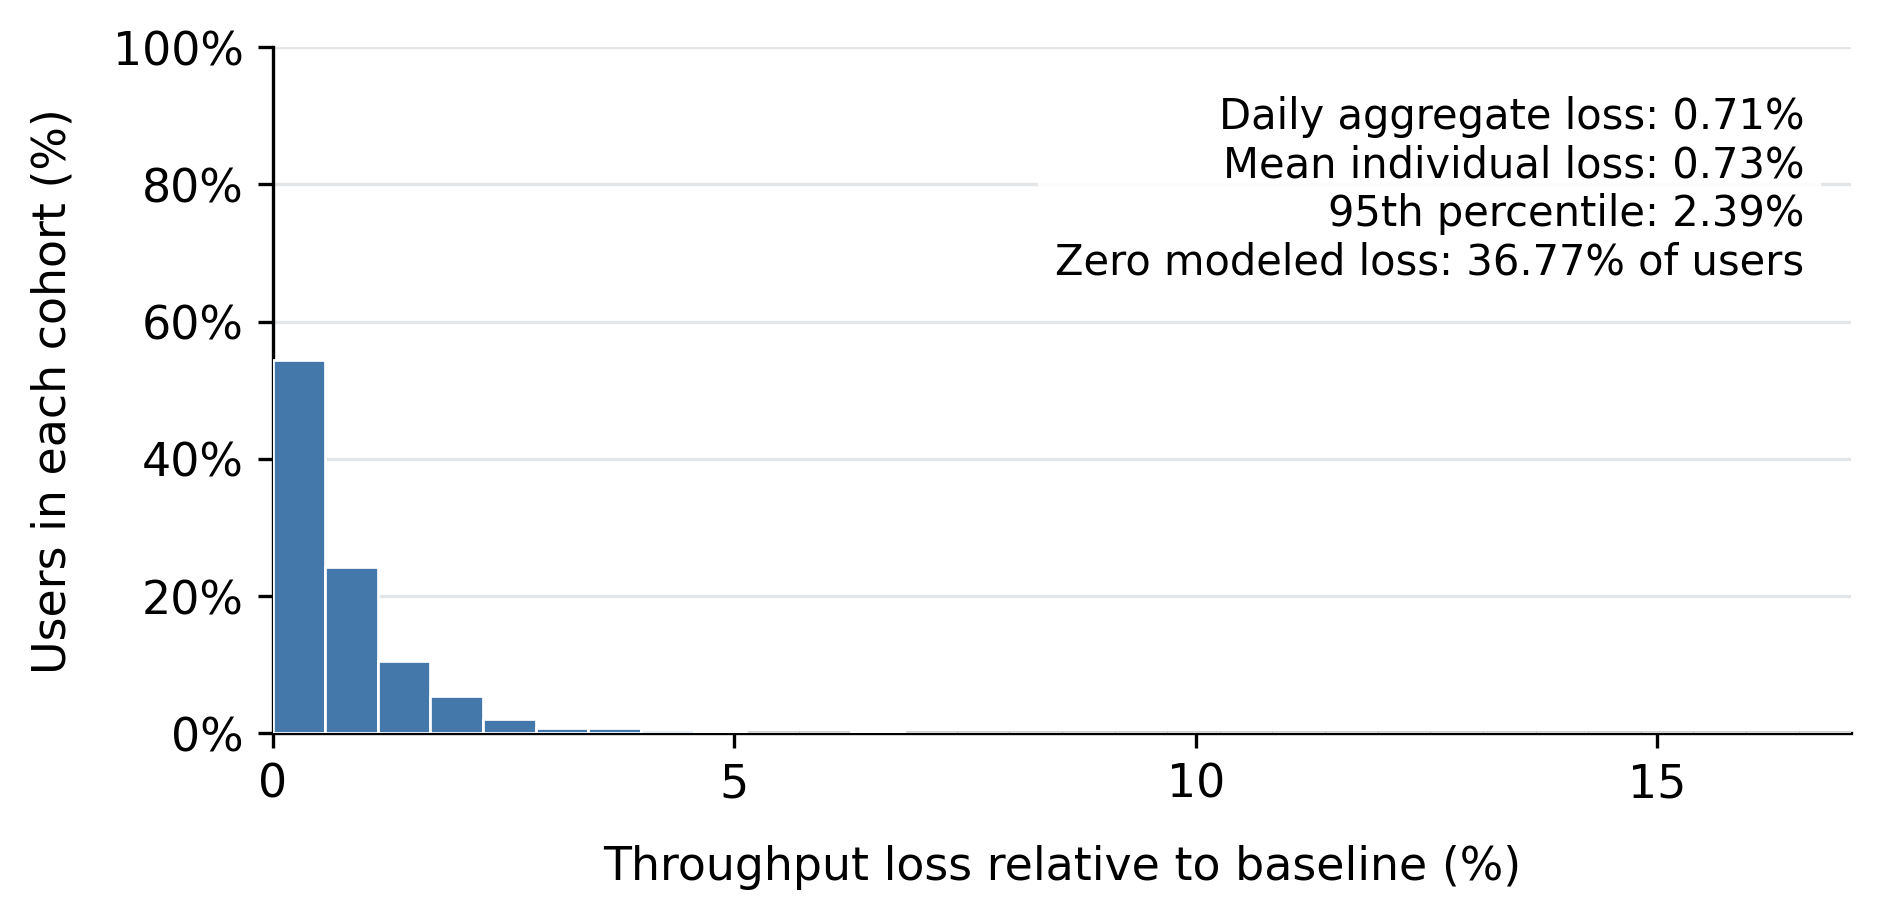
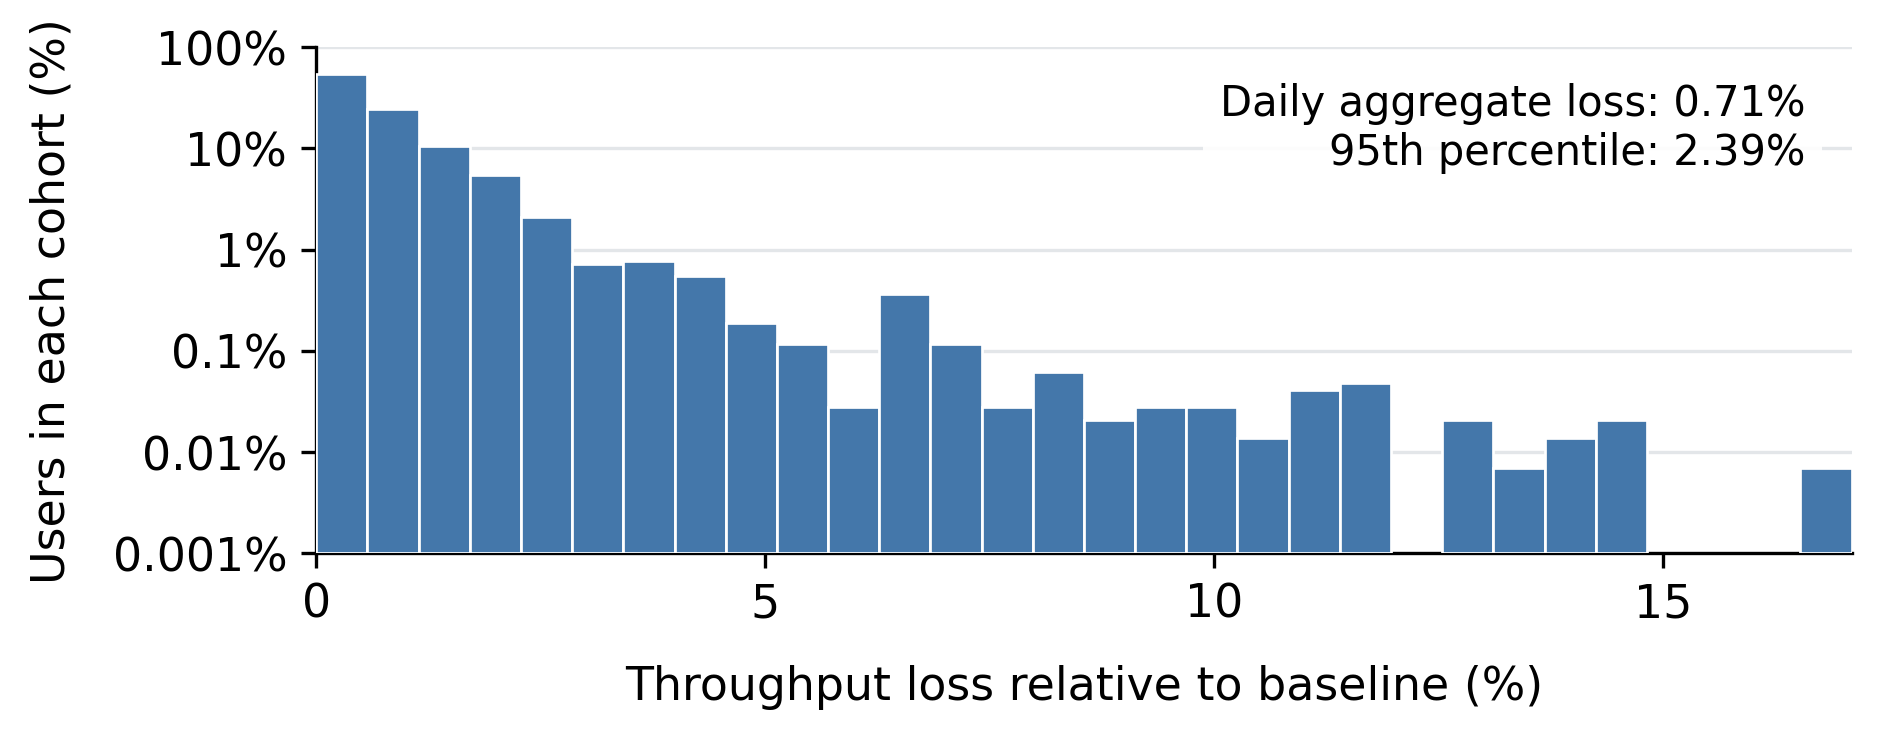
Update per-user throughput loss analysis: enhance histogram visualization with logarithmic scale, adjust output descriptions, and update generator SHA256

diff --git a/results/per-user-degradation/plot_session_histogram.py b/results/per-user-degradation/plot_session_histogram.py
@@ -9,7 +9,7 @@ import matplotlib
 
 matplotlib.use("Agg")
 import matplotlib.pyplot as plt
-from matplotlib.ticker import FormatStrFormatter, MaxNLocator, PercentFormatter
+from matplotlib.ticker import FormatStrFormatter, LogLocator, MaxNLocator, NullLocator
 import numpy as np
 import pandas as pd
 
@@ -65,14 +65,21 @@ def generate(source, output_dir):
                       output_dir / f"{OUTPUT_NAME}-bins.csv", index=False)
 
     plt.rcParams.update({"font.family": "DejaVu Sans", "font.size": 11, "pdf.fonttype": 42})
-    fig, ax = plt.subplots(figsize=(6.4, 3.2))
-    ax.bar(edges[:-1], percentages, width=width, align="edge", color="#4477AA",
+    fig, ax = plt.subplots(figsize=(6.4, 2.6))
+    nonempty = counts > 0
+    lower_limit = 10 ** np.floor(np.log10(percentages[nonempty].min() / 2))
+    ax.set_yscale("log")
+    # Empty bins stay blank, and each bar top retains its actual percentage.
+    ax.bar(edges[:-1][nonempty], percentages[nonempty] - lower_limit,
+           bottom=lower_limit, width=width, align="edge", color="#4477AA",
            edgecolor="white", linewidth=0.65, zorder=3)
     ax.set_xlim(0, edges[-1])
-    ax.set_ylim(0, 100)
+    ax.set_ylim(lower_limit, 100)
     ax.xaxis.set_major_locator(MaxNLocator(nbins=5, steps=[1, 2, 5, 10]))
     ax.xaxis.set_major_formatter(FormatStrFormatter("%g"))
-    ax.yaxis.set_major_formatter(PercentFormatter(100, decimals=0))
+    ax.yaxis.set_major_locator(LogLocator(base=10, numticks=7))
+    ax.yaxis.set_major_formatter(FormatStrFormatter("%g%%"))
+    ax.yaxis.set_minor_locator(NullLocator())
     ax.set_xlabel("Throughput loss relative to baseline (%)", labelpad=9)
     ax.set_ylabel("Users in each cohort (%)", labelpad=9)
     ax.grid(axis="y", color="#E3E6E9", zorder=0)
@@ -80,14 +87,12 @@ def generate(source, output_dir):
         ax.spines[spine].set_visible(False)
     ax.text(0.97, 0.93,
             f"Daily aggregate loss: {aggregate:.2f}%\n"
-            f"Mean individual loss: {losses.mean():.2f}%\n"
-            f"95th percentile: {np.quantile(losses, 0.95):.2f}%\n"
-            f"Zero modeled loss: {100 * (losses == 0).mean():.2f}% of users",
+            f"95th percentile: {np.quantile(losses, 0.95):.2f}%",
             transform=ax.transAxes, ha="right", va="top", fontsize=10,
             bbox={"facecolor": "white", "edgecolor": "none", "alpha": 0.9})
     fig.tight_layout()
     fig.savefig(stem.with_suffix(".pdf"), bbox_inches="tight", metadata={
-        "Title": "Modeled per-user throughput-loss distribution",
+        "Title": "Per-user throughput-loss distribution",
         "Subject": "Simulated loss distribution with lost volumes uniformly adjusted to a 0.71% daily aggregate",
         "CreationDate": None, "ModDate": None})
     fig.savefig(stem.with_suffix(".png"), dpi=300, bbox_inches="tight")
@@ -123,9 +128,10 @@ def generate(source, output_dir):
     }
     stem.with_suffix(".json").write_text(json.dumps(report, indent=2) + "\n")
     stem.with_suffix(".caption.txt").write_text(
-        "Distribution of modeled per-user throughput reductions across the 24-hour trace, "
-        "with modeled lost volumes uniformly adjusted to a daily aggregate of 0.71%. "
-        "The annotations distinguish the volume-weighted daily aggregate from the mean individual loss. User associations "
+        "Distribution of per-user throughput reductions across the 24-hour trace, "
+        "with a logarithmic vertical axis and empty bins left blank. "
+        "Session lost volumes are uniformly adjusted to a daily aggregate of 0.71%. "
+        "The annotations report the volume-weighted daily aggregate and the 95th percentile of individual loss. User associations "
         "are simulated, and radio-capacity deficits are outside this model.\n"
     )
     return report

diff --git a/results/per-user-degradation/README.md b/results/per-user-degradation/README.md
@@ -43,10 +43,13 @@ those copies before compiling the documents.
 
 The histogram covers 14,491 modeled user sessions across the 24-hour trace,
 with 30 equal-width bins including zero losses and the full tail. The canvas
-is 6.4 by 3.2 inches, without an upper title. Statistics use two decimal places.
+is 6.4 by 2.6 inches, without an upper title. The x-axis is linear, and the
+y-axis uses a logarithmic percentage scale with decade ticks. Its lower limit
+is below the smallest nonempty bin, and its upper limit is 100%. Empty bins
+remain blank. Statistics use two decimal places.
 
 The daily aggregate is 0.71%, computed as total lost volume divided by total
-baseline volume. The mean individual loss is 0.734301%, a different statistic.
+baseline volume.
 Modeled lost volumes are multiplied by approximately 830.962366 to obtain the
 requested aggregate, while baseline volumes remain fixed. The original input
 is preserved and the numerical adjustment is recorded in the output JSON.
